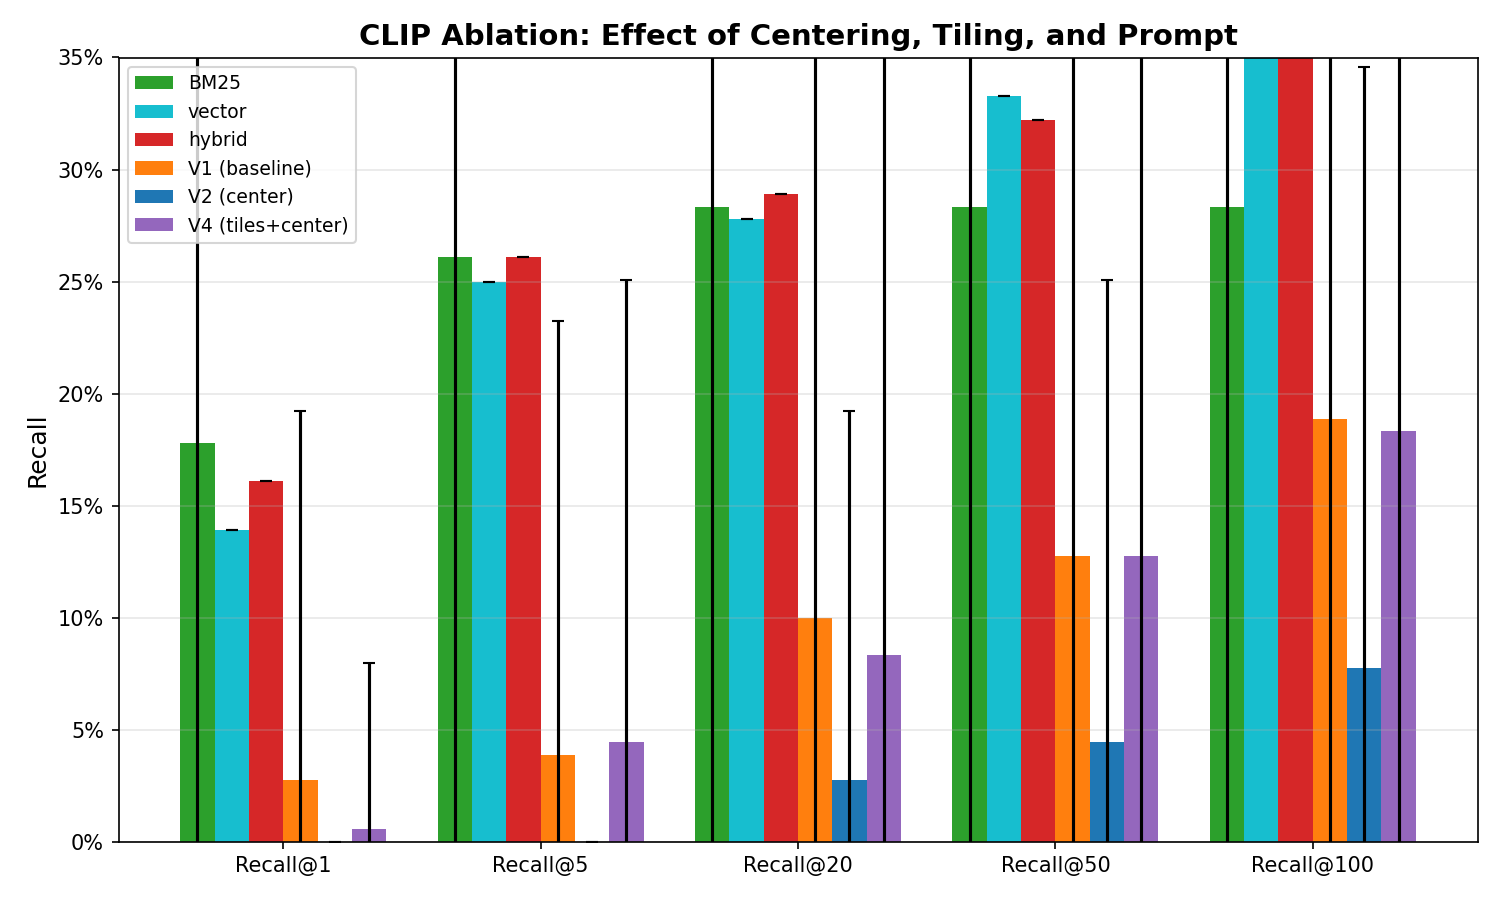
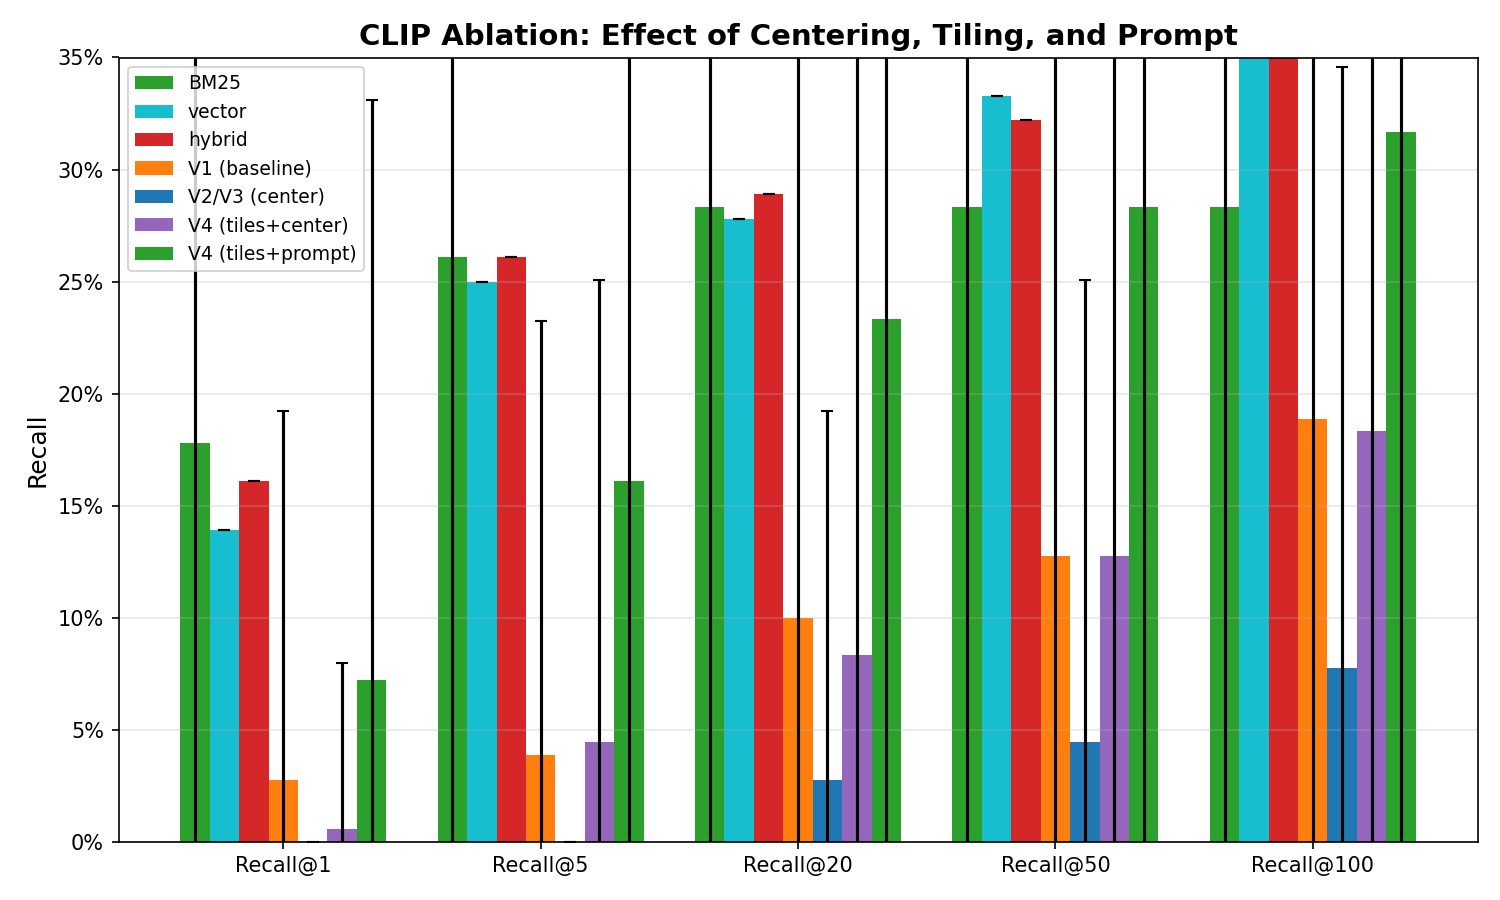
Fix unicode in hubness script, regenerate plots with V4b

diff --git a/scripts/compute_hubness_metrics.py b/scripts/compute_hubness_metrics.py
@@ -98,7 +98,6 @@ def main():
     print(f"\n  Supervisor target (diagnostic notes): centering should push")
     print(f"  hubness values toward BM25 levels (low top-50 share, high distinct pages).")
     print(f"  Empirical finding: centering is CATASTROPHIC — it INCREASES hubness")
-    print(f"  (e.g. V1: 21% top-50 share → V2: 93.5%), contradicting the diagnostic notes.")
 
 
 if __name__ == "__main__":

diff --git a/scripts/plots/comparison_table.md b/scripts/plots/comparison_table.md
@@ -2,7 +2,8 @@
 |---|---|---|---|---|---|
 | BM25 | 17.8% | 26.1% | 28.3% | 32.8% | 35.6% |
 | V1 (baseline) | 2.8% | 3.9% | 10.0% | 12.8% | 18.9% |
-| V2 (center) | 0.0% | 0.0% | 2.8% | 4.4% | 7.8% |
+| V2/V3 (center) | 0.0% | 0.0% | 2.8% | 4.4% | 7.8% |
 | V4 (tiles+center) | 0.6% | 4.4% | 8.3% | 12.8% | 18.3% |
+| V4 (tiles+prompt) | 7.2% | 16.1% | 23.3% | 28.3% | 31.7% |
 | vector | 13.9% | 25.0% | 27.8% | 33.3% | 36.7% |
 | hybrid | 16.1% | 26.1% | 28.9% | 32.2% | 37.8% |
